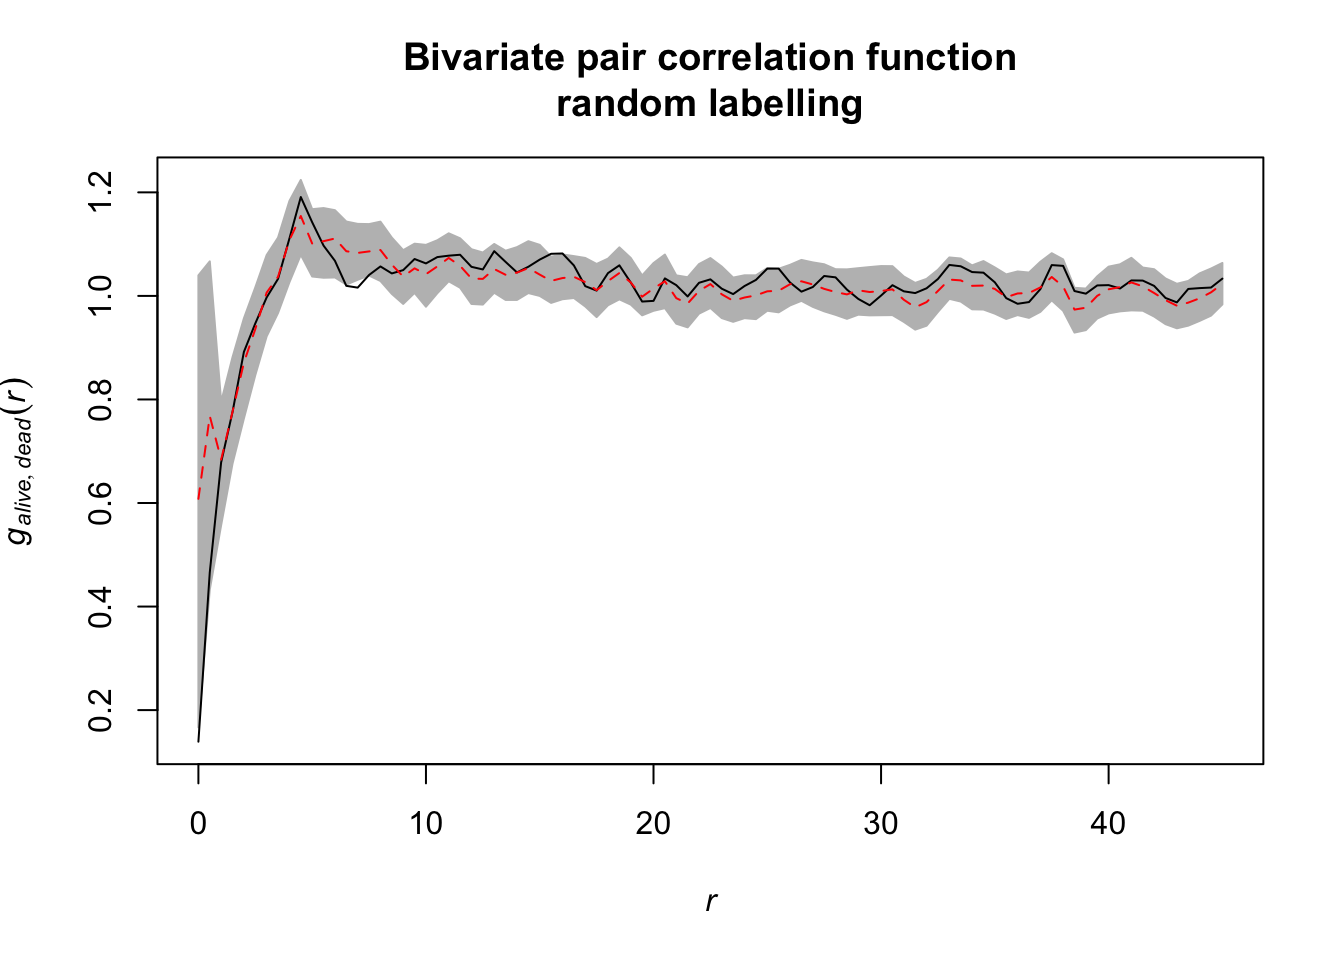
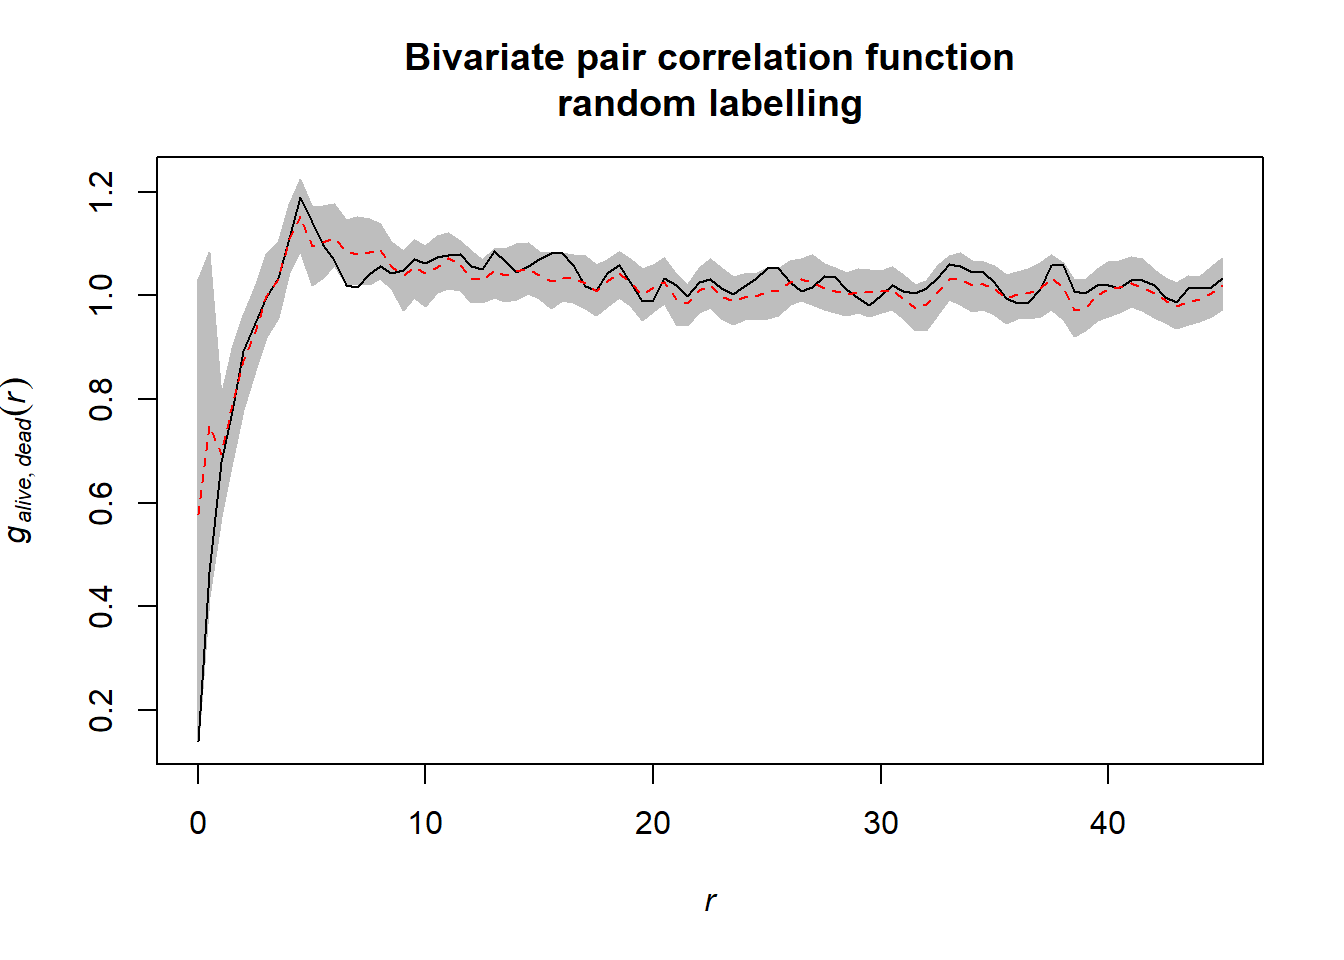
Put null model vis before resultw

diff --git a/Solution_homo_2.html b/Solution_homo_2.html
@@ -477,9 +477,10 @@ $(document).ready(function () {
                               r = seq(from = 0, to = 45, by = 0.5),
                               divisor = &quot;d&quot;, nsim = 199, nrank = 5,
                               simulate = expression(rlabel(douglas_fir_ppp)))</code></pre>
-<p><img src="Solution_homo_2_files/figure-html/solution_2_plot_envelope-1.png" width="672" style="display: block; margin: auto;" /></p>
 <p>If we visualise the null model data, we see that during the randomisation the location of all events stay unchanged and only the marks are randomly shuffled acroos the events.</p>
 <p><img src="Solution_homo_2_files/figure-html/visualization_null_model_rl-1.gif" width="65%" style="display: block; margin: auto;" /></p>
+<p>The results can be visualised using the <code>plot()</code> function.</p>
+<p><img src="Solution_homo_2_files/figure-html/solution_2_plot_envelope-1.png" width="672" style="display: block; margin: auto;" /></p>
 </div>
 <div id="exercise-6" class="section level3">
 <h3>Exercise 6</h3>
@@ -584,6 +585,8 @@ for (i in 1:199) {
 <h3>Exercise 8</h3>
 <p><strong>Task:</strong> How does the interpretation of the ‘Toroidal shift’ null model differ from the null models in 7)? What is the advantage? Is it always an advantage?</p>
 <p>There is a possibility to simulate the ‘toroidal shift’ null model with functions provided by <code>spatstat</code>. We just use the function <code>rshift()</code> and specify the behavior at the edge of the observation area (<code>edge</code>) and which points should be shifted (<code>which</code>).</p>
+<p>If we visualise the null model data, we see that the location of all adult trees is identical between the simulations. However, the location of the seedlings are randomised. Using the toroidal shift, you can see that the overall spatial structure of the seedlings is preserved</p>
+<p><img src="Solution_homo_2_files/figure-html/visualization_null_model_toroidal-1.gif" width="65%" style="display: block; margin: auto;" /></p>
 <pre class="r"><code>toroidal_shift &lt;- envelope(douglas_fir_ppp, fun = Oest_cross, 
                            i = &quot;adults&quot;, j = &quot;seedlings&quot;,
                            r = seq(from = 0, to = 45, by = 0.5),
@@ -592,8 +595,6 @@ for (i in 1:199) {
                                                         which = &quot;seedlings&quot;, 
                                                         edge = &quot;torus&quot;)))</code></pre>
 <p><img src="Solution_homo_2_files/figure-html/solution_2_plot_toroidal-1.png" width="672" style="display: block; margin: auto;" /></p>
-<p>If we visualise the null model data, we see that the location of all adult trees is identical between the simulations. However, the location of the seedlings are randomised. Using the toroidal shift, you can see that the overall spatial structure of the seedlings is preserved</p>
-<p><img src="Solution_homo_2_files/figure-html/visualization_null_model_toroidal-1.gif" width="65%" style="display: block; margin: auto;" /></p>
 <p><strong>References</strong>:</p>
 <p>Baddeley, A., Rubak, E., Turner, R., 2015. Spatial point patterns: Methodology and applications with R. Chapman and Hall/CRC Press, London.</p>
 <p>Getzin, S., Dean, C., He, F., Trofymow, J.A., Wiegand, K., Wiegand, T., 2006. Spatial patterns and competition of tree species in a Douglas fir chronosequence on Vancouver Island. Ecography, 29, 671-682.</p>
